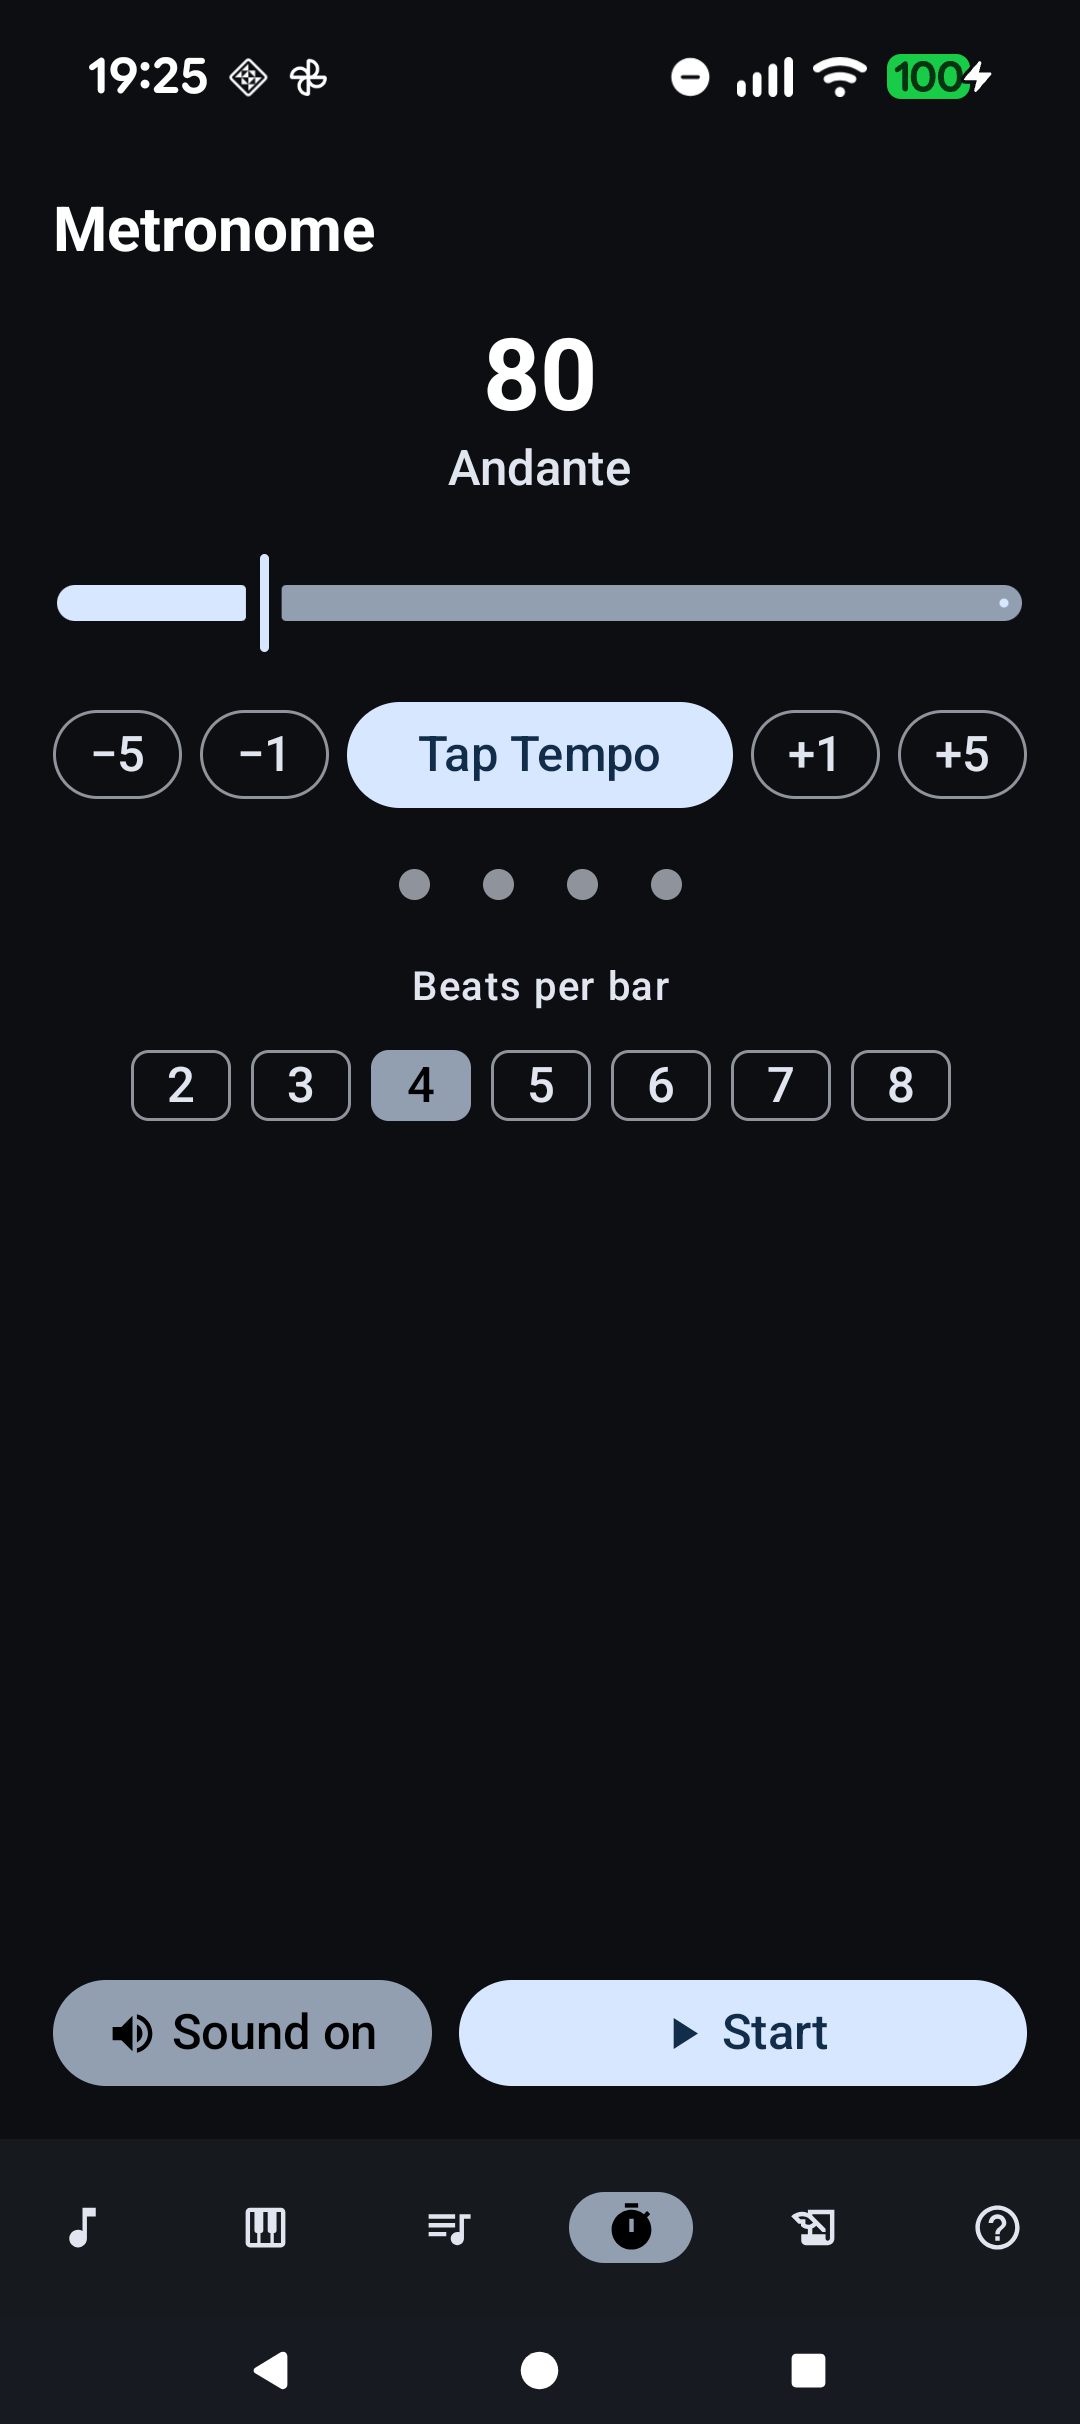
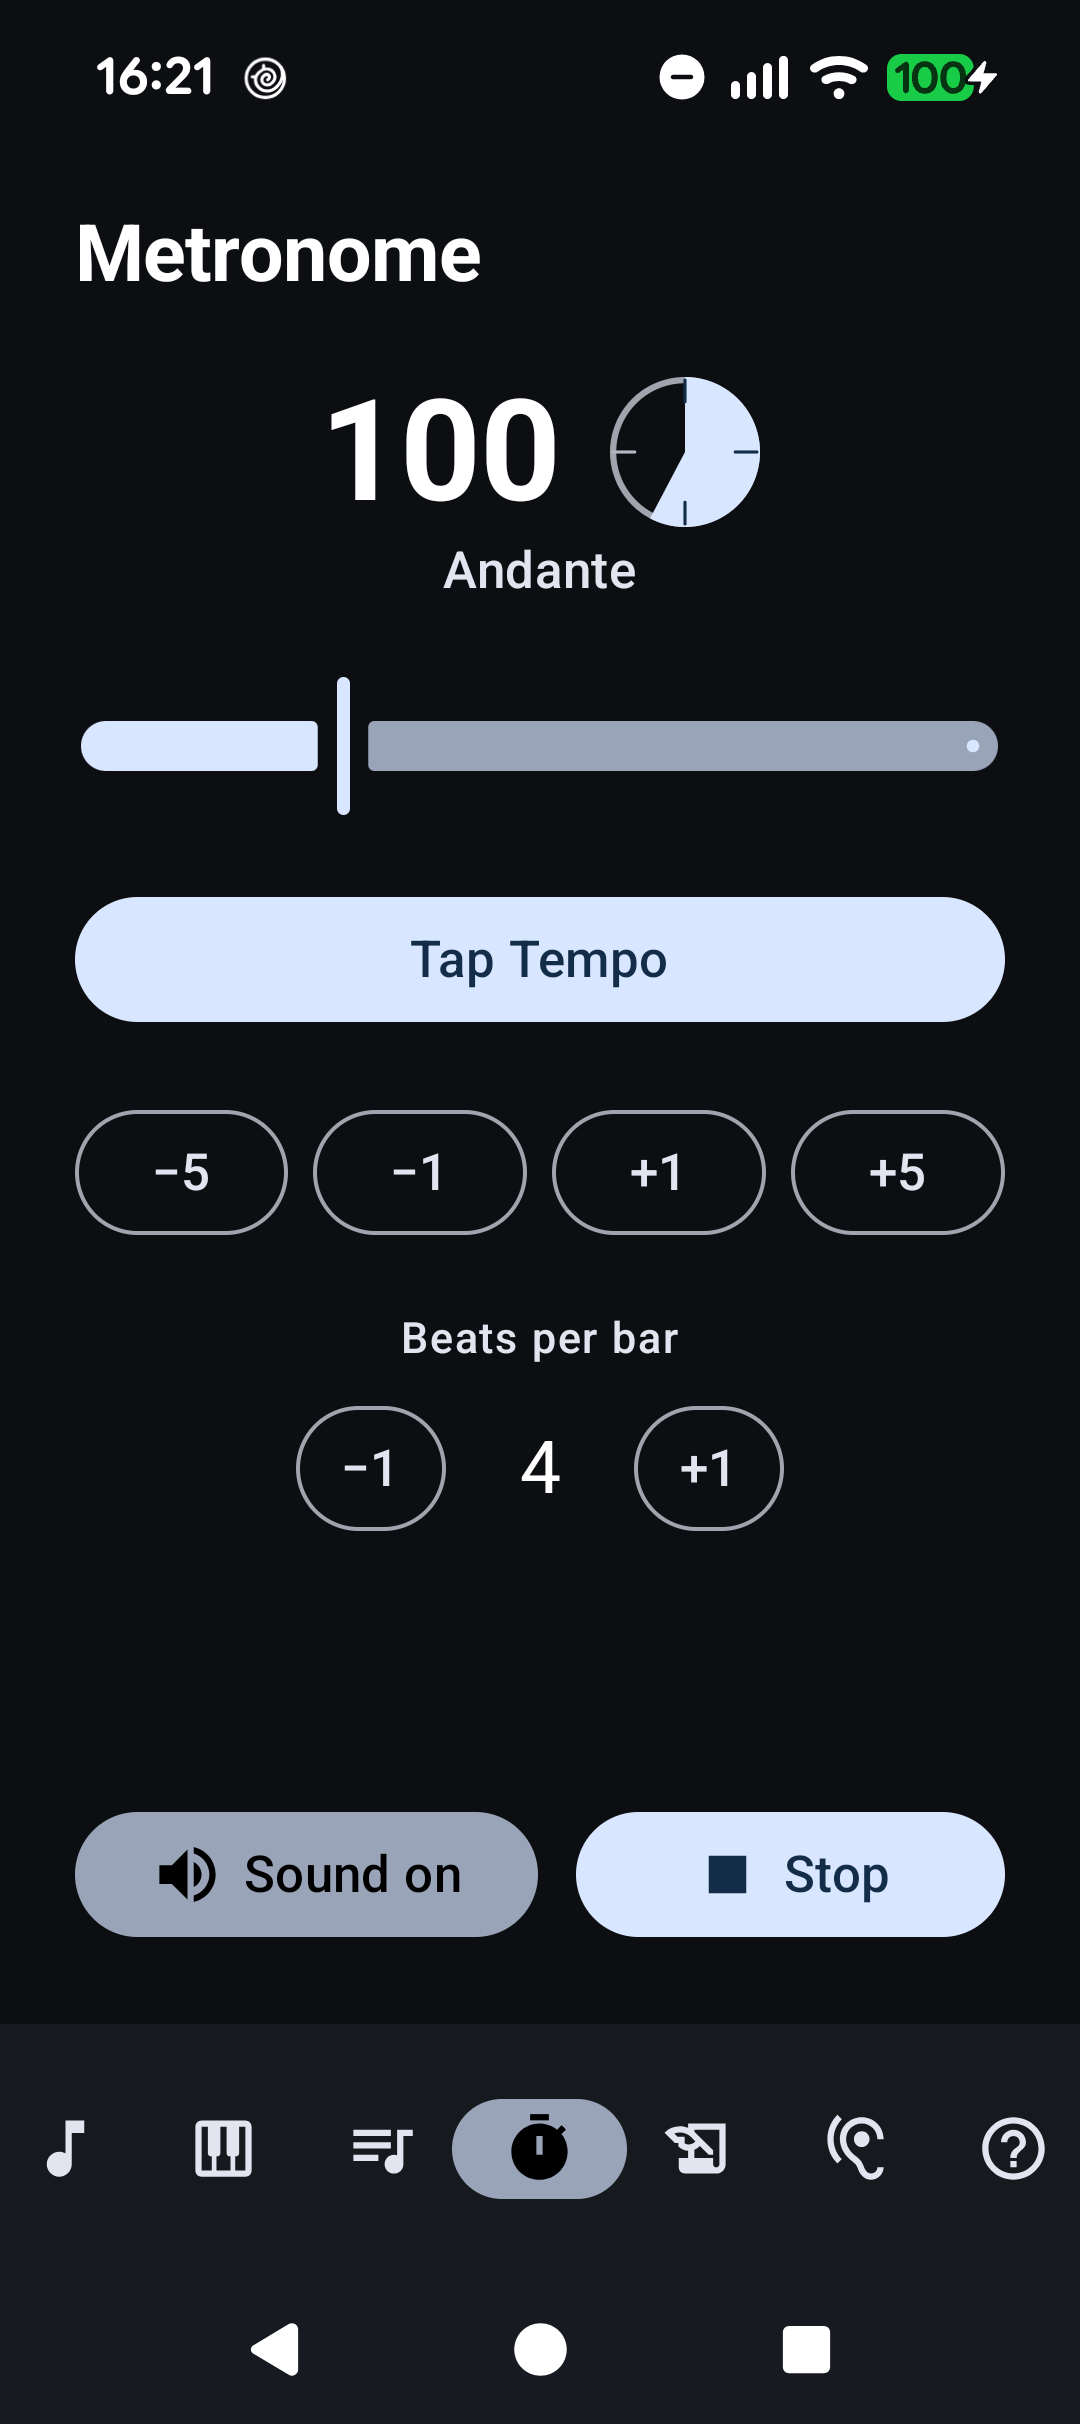
fix fretboards and readme

diff --git a/app/src/main/java/com/braindelay/guitartools/ui/ScaleScreen.kt b/app/src/main/java/com/braindelay/guitartools/ui/ScaleScreen.kt
@@ -71,6 +71,7 @@ import androidx.compose.ui.platform.LocalConfiguration
 import androidx.compose.ui.res.painterResource
 import androidx.compose.ui.text.style.TextOverflow
 import androidx.compose.ui.unit.Constraints
+import androidx.compose.ui.unit.Dp
 import androidx.compose.ui.unit.dp
 import androidx.lifecycle.viewmodel.compose.viewModel
 import com.braindelay.guitartools.R
@@ -398,19 +399,24 @@ fun ScaleScreen(vm: ScaleViewModel = viewModel(), isProgressionPlaying: Boolean 
             sheetState = chordSheetState
         ) {
             val rootNote = vm.noteAt(selectedPos)
-            // Scrollable so the chip list still fits when the sheet is taller than a landscape screen
+            val rotateSheet = isFullscreen && isPortrait
+            val screenHeight = LocalConfiguration.current.screenHeightDp.dp
+            // Rotated: lay the whole sheet out as landscape and turn it as one block, so it
+            // matches the natural-landscape layout (title top-left, chips below).
+            // Otherwise scrollable so the chip list still fits on a short landscape screen.
             Column(
                 modifier = Modifier
-                    .verticalScroll(rememberScrollState())
+                    .then(
+                        if (rotateSheet) Modifier.rotateSheetToLandscape(screenHeight)
+                        else Modifier.verticalScroll(rememberScrollState())
+                    )
                     .padding(horizontal = 16.dp)
                     .padding(bottom = 32.dp),
                 verticalArrangement = Arrangement.spacedBy(12.dp)
             ) {
-                val rotateSheet = isFullscreen && isPortrait
                 Text(
                     "${rootNote.displayName} — choose chord type",
-                    style = MaterialTheme.typography.titleMedium,
-                    modifier = if (rotateSheet) Modifier.rotateWithLayout(90f) else Modifier
+                    style = MaterialTheme.typography.titleMedium
                 )
                 FlowRow(
                     horizontalArrangement = Arrangement.spacedBy(8.dp),
@@ -432,7 +438,6 @@ fun ScaleScreen(vm: ScaleViewModel = viewModel(), isProgressionPlaying: Boolean 
                                     }
                                 }
                             },
-                            modifier = if (rotateSheet) Modifier.rotateWithLayout(90f) else Modifier,
                             leadingIcon = if (isDiatonic) {
                                 { Icon(Icons.Default.Info, null, Modifier.size(14.dp)) }
                             } else null,
@@ -640,6 +645,30 @@ private fun Modifier.rotateWithLayout(degrees: Float): Modifier = this.layout { 
         ) { rotationZ = degrees }
     }
 }
+
+// Lays content out at landscape width (the portrait screen height) and rotates it 90° CW
+// as one block, aligned to the portrait right edge, which is the player's visual top.
+private fun Modifier.rotateSheetToLandscape(screenHeight: Dp): Modifier =
+    this.layout { measurable, constraints ->
+        val landscapeWidth =
+            if (constraints.hasBoundedHeight) constraints.maxHeight else screenHeight.roundToPx()
+        // Fixed width: if the content were allowed to shrink-wrap, its rotated height would
+        // feed back into the sheet's constraints and the chips would re-wrap every frame.
+        val placeable = measurable.measure(
+            Constraints(
+                minWidth = landscapeWidth,
+                maxWidth = landscapeWidth,
+                maxHeight = constraints.maxWidth
+            )
+        )
+        val width = if (constraints.hasBoundedWidth) constraints.maxWidth else placeable.height
+        layout(width, placeable.width) {
+            placeable.placeWithLayer(
+                x = width - placeable.height - (placeable.width - placeable.height) / 2,
+                y = (placeable.width - placeable.height) / 2,
+            ) { rotationZ = 90f }
+        }
+    }
 
 private fun Modifier.rotatePortraitToLandscape(): Modifier =
     this.layout { measurable, constraints ->

diff --git a/app/src/main/java/com/braindelay/guitartools/ui/HelpScreen.kt b/app/src/main/java/com/braindelay/guitartools/ui/HelpScreen.kt
@@ -352,7 +352,14 @@ private fun SectionBlock(id: String) {
                 listOf(
                     "**Drag the slider** to set BPM (20–300). The Italian tempo name (Largo, Andante, Allegro…) updates automatically.",
                     "Use **−5 / −1 / +1 / +5** for precise nudges.",
-                    "Tap **Tap Tempo** in rhythm to derive the BPM from your playing. Three or more taps average out to a stable tempo."
+                    "Tap **Tap Tempo** in rhythm to derive the BPM from your playing. The BPM updates from the second tap and averages your last eight taps; pause for more than 2.5 seconds to start a fresh count."
+                )
+            )
+            SubHeader("Playback")
+            BulletList(
+                listOf(
+                    "Press **Start** to begin clicking and **Stop** to end. The downbeat (beat 1) plays an accented click.",
+                    "In landscape, the BPM controls sit on the left and a large **Tap Tempo** button fills the right, above the playback controls."
                 )
             )
             SubHeader("Beat Display")

diff --git a/README.md b/README.md
@@ -8,7 +8,7 @@ A tool to help guitarists learn scales, chord voicings, and progressions. Visual
 
 ### Scales
 
-<img src="./screenshots/01_scale_selector.png" width="480"/>
+<img src="screenshots/01_scale_selector.png" alt="Root and scale selector" width="300"/>
 
 1. **Choose a root note** — tap any of the 12 chromatic notes in the Root & Scale card.
 2. **Choose a mode** — tap a mode chip (Major, Minor, Dorian, Harmonic Minor, Major/Minor Pentatonic, Blues, etc.).
@@ -19,7 +19,7 @@ In **portrait** the Root & Scale card stacks vertically — a large Circle of Fi
 
 #### Pentatonic and Blues scales
 
-<img src="./screenshots/11_pentatonic.png" width="480"/>
+<img src="screenshots/11_pentatonic.png" alt="Pentatonic scale on the fretboard" width="300"/>
 
 - **Major Pentatonic** (1–2–3–5–6), **Minor Pentatonic** (1–b3–4–5–b7), and **Blues** (1–b3–4–b5–5–b7) sit alongside the seven-note modes.
 - Roman numerals show only the available degrees (5 or 6 instead of 7). Equivalent intervals share colours with the parent diatonic mode; the **b5** in the Blues scale is highlighted in the error colour.
@@ -36,11 +36,11 @@ In **portrait** the Root & Scale card stacks vertically — a large Circle of Fi
 
 - **Tap any highlighted note** on the fretboard to open a chord type picker at the bottom of the screen.
 
-<img src="./screenshots/04_voicing_picker.png" width="480"/>
+<img src="screenshots/04_voicing_picker.png" alt="Chord type picker" width="300"/>
 
 - Select a chord type to overlay its tones on the fretboard (colour-coded R / 3 / 5 / 7).
 
-<img src="./screenshots/03_chord_overlay.png" width="480"/>
+<img src="screenshots/03_chord_overlay.png" alt="Chord tone overlay" width="300"/>
 
 - Tap **▶** (Play) to hear the chord via synthesised audio.
 - Diatonic chord types for the tapped note are marked with a dot (●).
@@ -59,7 +59,7 @@ In **portrait** the Root & Scale card stacks vertically — a large Circle of Fi
 
 ### Chords
 
-<img src="./screenshots/05_chords.png" width="480"/>
+<img src="screenshots/05_chords.png" alt="Chords screen" width="300"/>
 
 In portrait, the circle of fifths sits at the top and the chord list fills the lower half. In landscape, they sit side by side.
 
@@ -71,7 +71,7 @@ In portrait, the circle of fifths sits at the top and the chord list fills the l
 
 #### Custom chord builder
 
-<img src="./screenshots/09_custom_chord.png" width="480"/>
+<img src="screenshots/09_custom_chord.png" alt="Custom chord builder" width="300"/>
 
 Scroll to the bottom of the chord list to find the **Custom** section.
 
@@ -85,7 +85,7 @@ Scroll to the bottom of the chord list to find the **Custom** section.
 
 ### Progression
 
-<img src="./screenshots/06_progression.png" width="480"/>
+<img src="screenshots/06_progression.png" alt="Progression builder" width="300"/>
 
 The chord selector shows the circle of fifths on the left, chord type chips in the middle, and example voicings on the right. In portrait the selector and progression list are stacked; in landscape they sit side by side.
 
@@ -98,7 +98,7 @@ The chord selector shows the circle of fifths on the left, chord type chips in t
 
 #### Templates
 
-<img src="./screenshots/12_templates.png" width="480"/>
+<img src="screenshots/12_templates.png" alt="Progression templates" width="300"/>
 
 - Tap **Templates** to open a sheet of preset progressions. Templates resolve against the key currently set in the Scales screen.
 - Select a template to preview the chord sequence, then press **Load** (replaces current) or **Append** (adds to the end).
@@ -121,25 +121,29 @@ The chord selector shows the circle of fifths on the left, chord type chips in t
 
 ### Metronome
 
-<img src="./screenshots/07_metronome.png" width="480"/>
+<img src="screenshots/07_metronome.png" alt="Metronome screen" width="300"/>
 
 A standalone click track that also drives Progression playback tempo. Any BPM change here is immediately reflected when the Progression loops.
 
 #### Setting the tempo
 - **Drag the slider** to set BPM (20–300). The Italian tempo name (Largo, Andante, Allegro…) updates automatically.
 - Use **−5 / −1 / +1 / +5** for precise nudges.
-- Tap **Tap Tempo** in rhythm to derive the BPM from your playing. Three or more taps average out to a stable tempo.
+- Tap **Tap Tempo** in rhythm to derive the BPM from your playing. The BPM updates from the second tap and averages your last eight taps; pause for more than 2.5 seconds to start a fresh count.
 
 #### Beat display
-- Animated dots show each beat. The **downbeat (beat 1)** pulses in a distinct colour.
-- Choose 2–8 **beats per bar** with the filter chips below the dots.
-- Toggle **Muted** to keep the visual pulse without audible clicks — useful when playing quietly.
+- The circle next to the BPM fills **clockwise from the top** over each bar, emptying again on the downbeat. A tick mark around the edge marks each beat.
+- Use **−1** / **+1** under *Beats per bar* to set the number of beats per bar (1–12).
+- Toggle **Sound on / Muted** to keep the visual pulse without audible clicks — useful when playing quietly.
+
+#### Playback
+- Press **Start** to begin clicking and **Stop** to end. The downbeat (beat 1) plays an accented click.
+- In landscape, the BPM controls sit on the left and a large **Tap Tempo** button fills the right, above the playback controls.
 
 ---
 
 ### Exercises
 
-<img src="./screenshots/08_exercises.png" width="480"/>
+<img src="screenshots/08_exercises.png" alt="Exercises screen" width="300"/>
 
 Seven structured exercises for developing chord-tone soloing and improvisation. Each card shows a difficulty badge and a one-line summary. Tap any card to expand the step-by-step instructions and a tip.
 
@@ -160,7 +164,7 @@ Seven structured exercises for developing chord-tone soloing and improvisation. 
 
 ### Ear Training
 
-<img src="./screenshots/10_ear_training.png" width="480"/>
+<img src="screenshots/10_ear_training.png" alt="Ear Training screen" width="300"/>
 
 Three listen-and-pick drills for sharpening your ear. All audio is generated by the same Karplus-Strong synthesiser used elsewhere in the app.
 
@@ -182,3 +186,60 @@ Three listen-and-pick drills for sharpening your ear. All audio is generated by 
 - **Interval drill** — toggle which intervals are in the pool (m2 through P8); multi-select **Ascending**, **Descending**, and **Harmonic** playback (the drill picks one mode at random per question, and Replay reuses it). A **Clear** button on the header empties both the pool and the playback set.
 - **Scale Degree drill** — pick the root note used to anchor the major scale.
 - **Chord Quality drill** — toggle which qualities are in the pool. A **Clear** button on the header empties the pool.
+
+---
+
+## Building and releasing
+
+### Prerequisites
+- **JDK 17** or newer and the **Android SDK** (Android Studio installs both). Compile/target SDK is 37, min SDK is 24.
+- The Gradle wrapper (`./gradlew`) downloads the right Gradle version, so you don't need a separate install.
+
+### Build and test
+
+```bash
+./gradlew assembleDebug          # debug APK  → app/build/outputs/apk/debug/app-debug.apk
+./gradlew test                   # unit tests
+./gradlew lint                   # lint      → app/build/reports/lint-results-debug.html
+./gradlew connectedAndroidTest   # instrumented tests (needs a device or emulator)
+./gradlew installDebug           # install the debug build on a connected device
+```
+
+### Release signing
+
+Release builds are signed with the upload key described in `keystore.properties` at the project root. This file is git-ignored; never commit it or the keystore.
+
+1. If you don't have an upload keystore yet, create one:
+   ```bash
+   keytool -genkeypair -v -keystore ~/keys/guitartools-upload.jks \
+     -alias upload -keyalg RSA -keysize 2048 -validity 10000
+   ```
+2. Copy `keystore.properties.example` to `keystore.properties` and fill in the values:
+   ```properties
+   storeFile=/Users/you/keys/guitartools-upload.jks
+   storePassword=...
+   keyAlias=upload
+   keyPassword=...
+   ```
+
+Without `keystore.properties` a release build still compiles, but it comes out unsigned and Play won't accept it.
+
+### Releasing to Google Play
+
+1. **Bump the version** in `app/build.gradle.kts`. Play rejects any upload whose `versionCode` it has already seen:
+   ```kotlin
+   versionCode = 24      // must increase on every upload
+   versionName = "1.3"   // shown to users
+   ```
+2. **Build the signed bundle:**
+   ```bash
+   ./gradlew clean bundleSignedRelease
+   ```
+   The bundle is written to `app/build/outputs/bundle/release/app-release.aab`. Release builds use R8, which minifies and shrinks resources, and it writes a deobfuscation map to `app/build/outputs/mapping/release/mapping.txt`.
+3. **Upload to Play Console** ([play.google.com/console](https://play.google.com/console)) → *Guitar Tools* → **Test and release**:
+   - Pick the track, e.g. **Testing → Closed testing** (the current track, see [CLOSED_TESTING.md](CLOSED_TESTING.md)), **Internal testing** for a quick smoke test, or **Production**.
+   - **Create new release** → upload `app-release.aab`. Play App Signing re-signs the bundle with the app signing key, so you only ever handle the upload key.
+   - Upload `mapping.txt` against the new version (App bundle explorer → the version → *Downloads* → *Deobfuscation file*) so crash reports in Android vitals are readable.
+   - Add release notes, then **Next → Save → Send for review**.
+4. When a testing release looks good, **promote** it from its track page (*Promote release*) instead of uploading again.
+5. Commit the version bump with the version as the message (e.g. `v24`), matching earlier releases.
